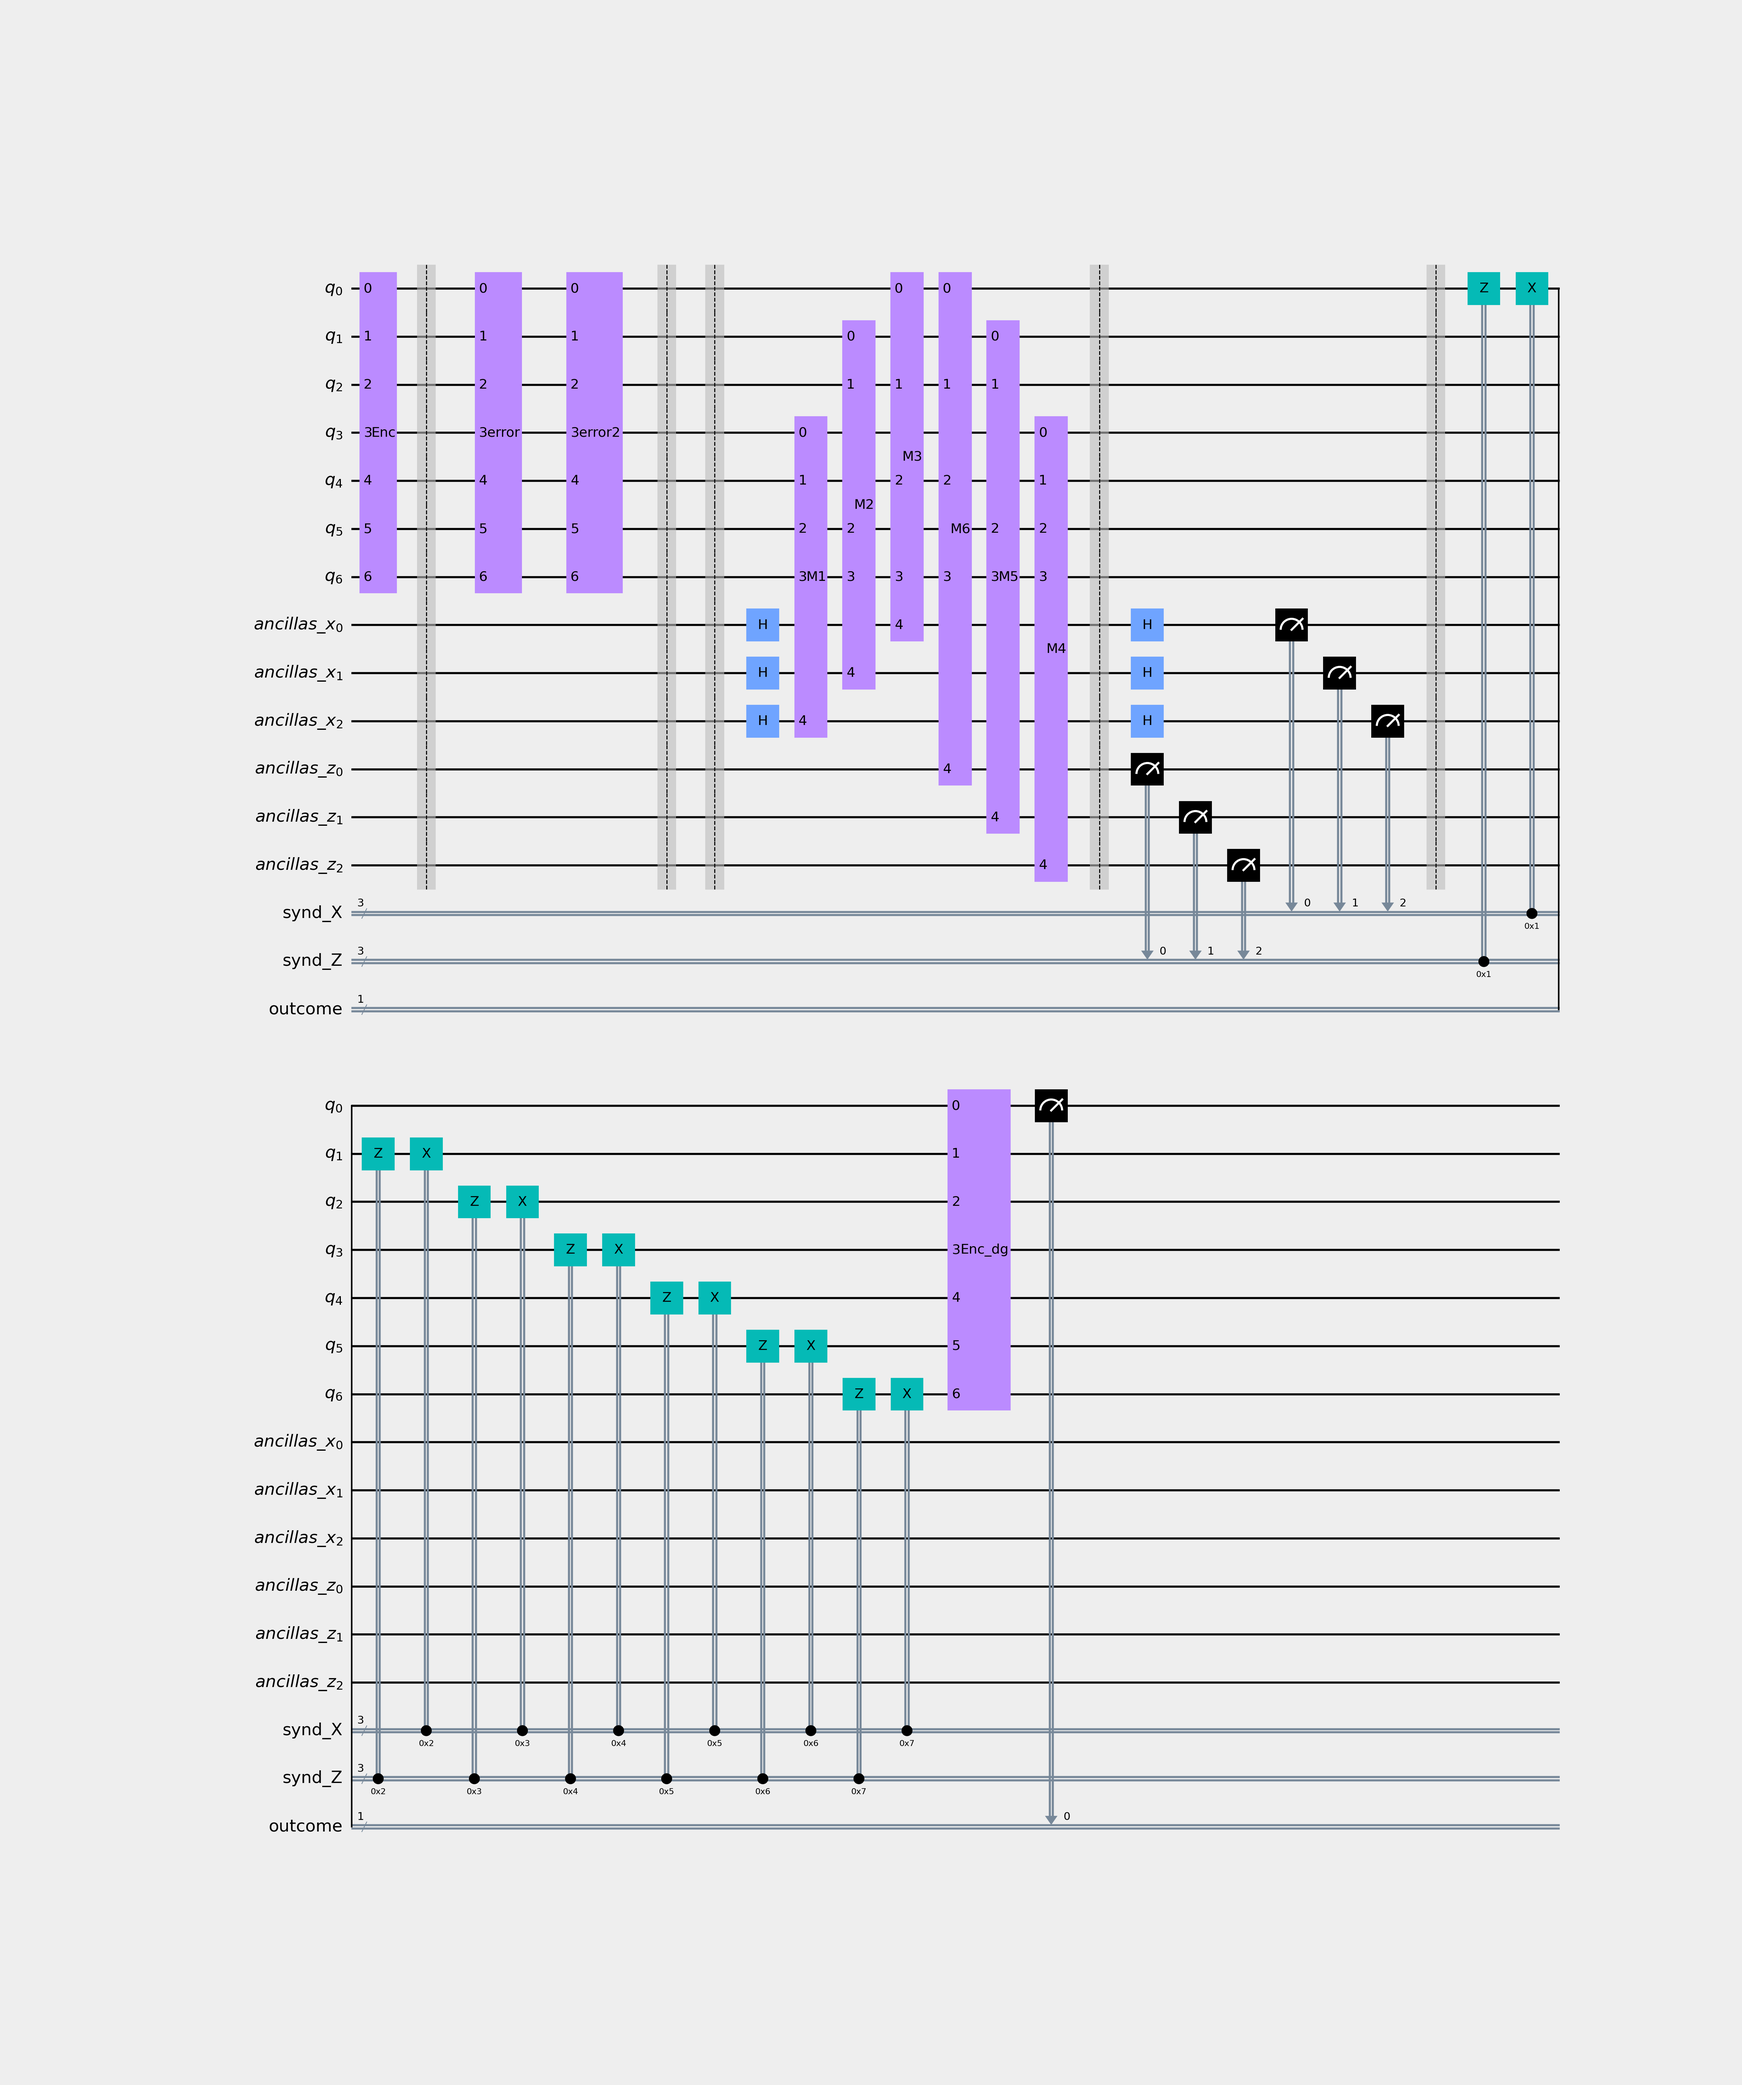
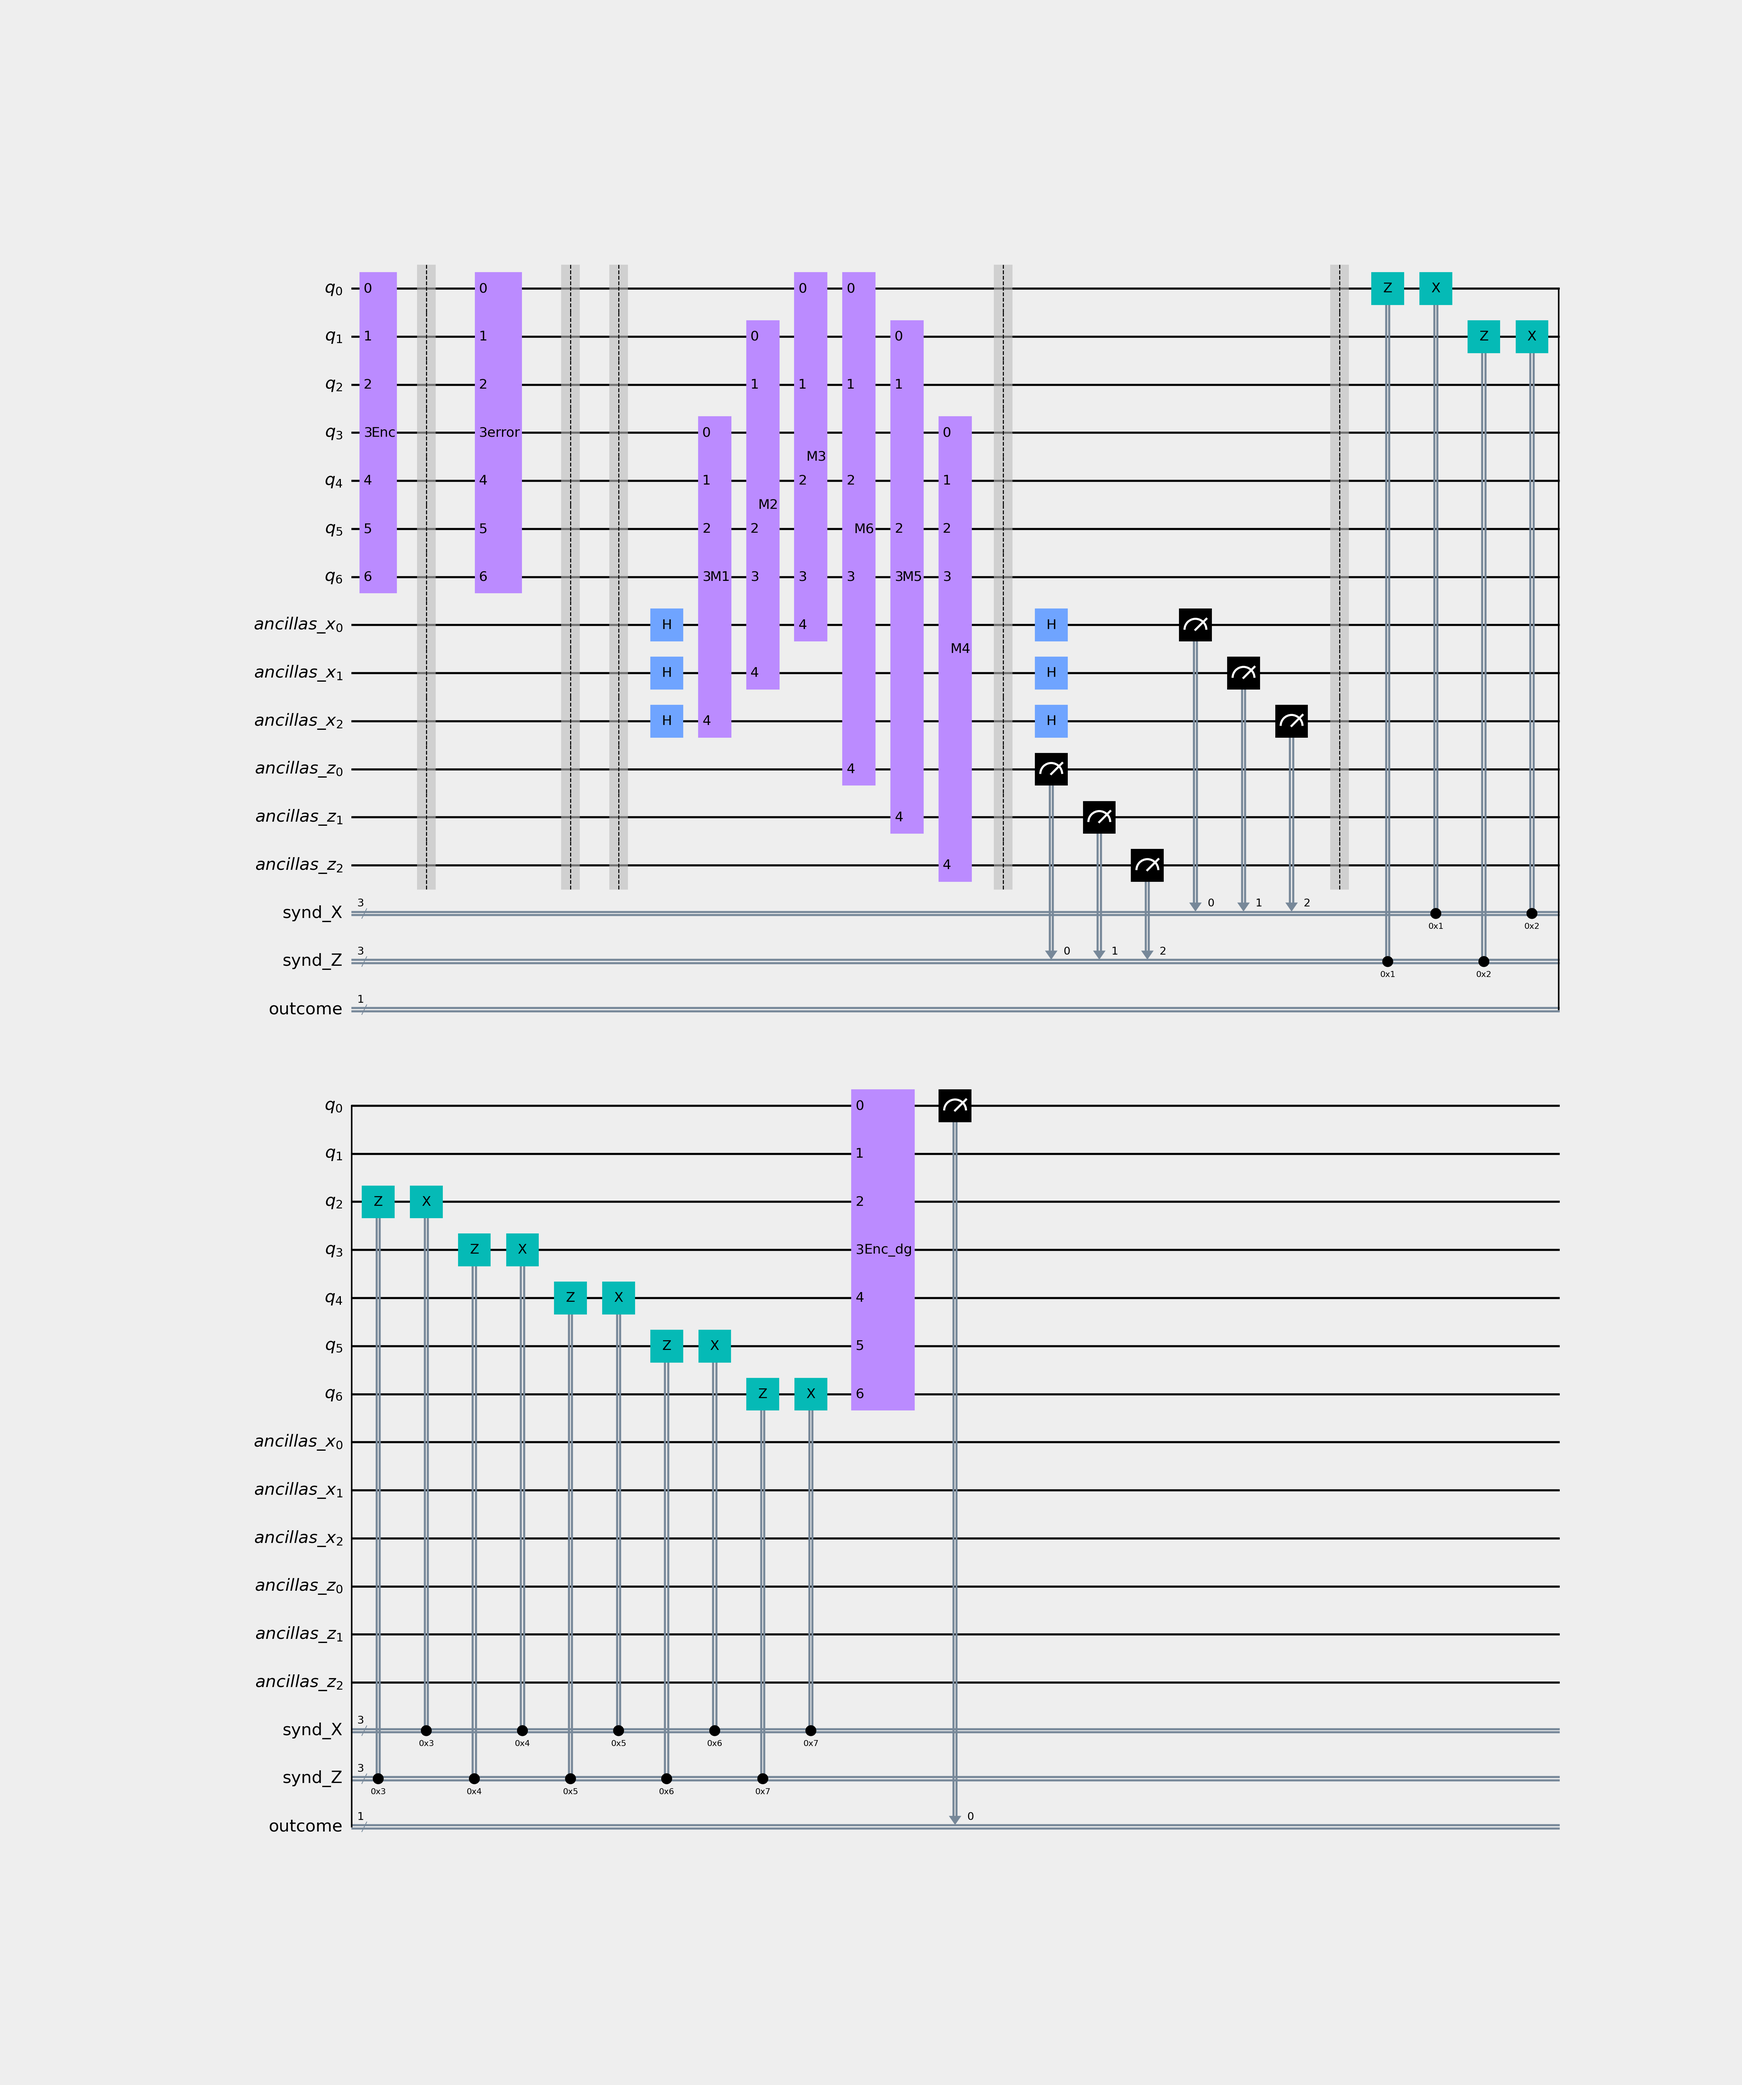
noise model

Changed region(s): [[0.3108, 0.1246, 0.9012, 0.4673], [0.1865, 0.4985, 0.6215, 0.6854]]

diff --git a/Seven_qubit_code.py b/Seven_qubit_code.py
@@ -24,6 +24,11 @@ def run(quantum_circuit, noise_model, aer_sim):
 
 
 def create_noise_model():
+    noise_model = NoiseModel()
+    error = depolarizing_error(0.5, 1)
+    noise_model.add_all_qubit_quantum_error(error, 'error')
+    print(noise_model)
+    return noise_model
     return get_noise(0.1)
 
 
@@ -80,12 +85,9 @@ def append_stabilizers_logic(quantum_circuit):
 
 def perform_some_computations(all_qubits, quantum_circuit):
     quantum_error_1 = QuantumCircuit(7, name='error')
-    quantum_error_2 = QuantumCircuit(7, name='error2')
     ident3 = qi.Operator(np.identity(2 ** 7))
     quantum_error_1.unitary(ident3, all_qubits, label='error')
-    quantum_error_2.unitary(ident3, all_qubits, label='error2')
     quantum_circuit.append(quantum_error_1, all_qubits)
-    quantum_circuit.append(quantum_error_2, all_qubits)
     quantum_circuit.barrier()
 
 
